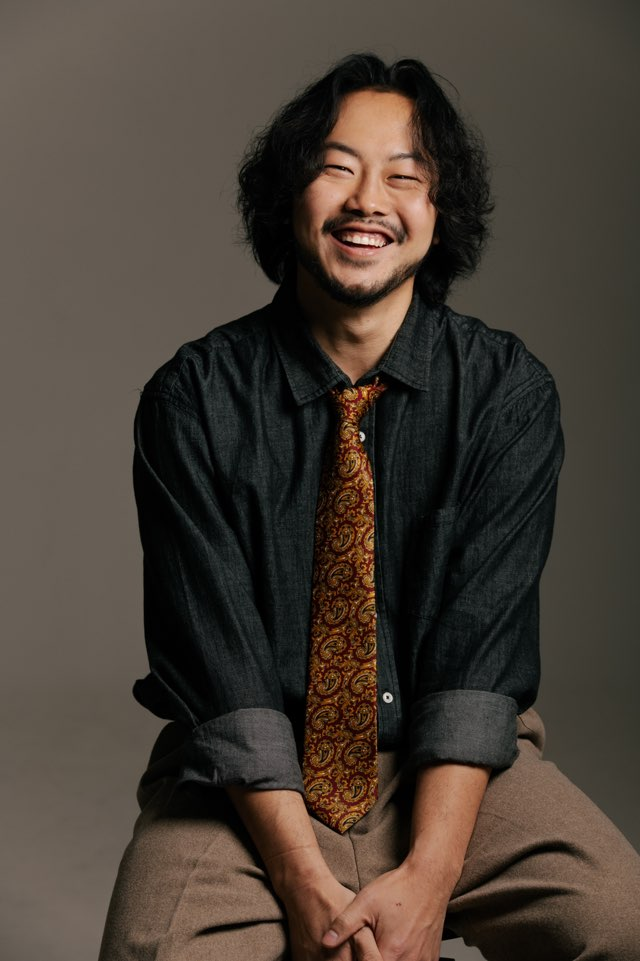
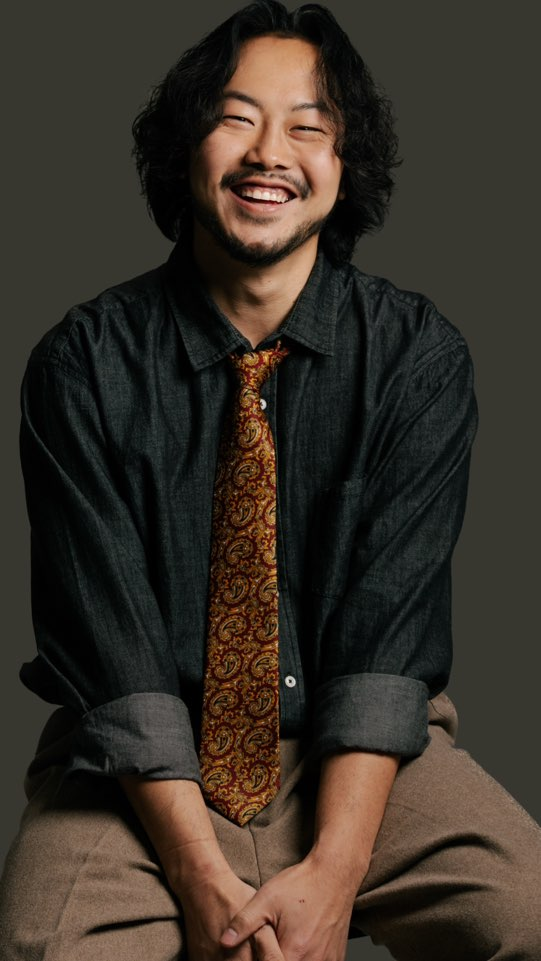
add gnb, first slide fix

diff --git a/frontend/src/app/home/home.component.html b/frontend/src/app/home/home.component.html
@@ -1,5 +1,102 @@
-<swiper [navigation]="true" class="mySwiper">
-  <ng-template swiperSlide *ngFor="let imgPath of imgList">
-    <img [src]="imgPath">
-  </ng-template>
-</swiper>
+<div class="home-container" fxFlexFill fxLayout="column" fxLayoutAlign="center center">
+
+  <swiper
+      [direction]="'vertical'"
+      [slidesPerView]="1"
+      [spaceBetween]="30"
+      [mousewheel]="true"
+      [pagination]="{
+          clickable: true
+      }"
+      class="swiper"
+  >
+    <ng-template swiperSlide>
+      <div fxFlex="33" class="info-box">
+          <h1>KIM SEUNG BOO</h1>
+          <div class="name-box" fxLayout="row" fxLayoutAlign="center center">
+            김 승 부
+          </div>
+        <mat-divider></mat-divider>
+        <span class="info-text">
+          - 나이 : 1996년생
+        </span>
+        <span class="info-text">
+          - 키 / 체중 : 179cm / 80kg
+        </span>
+        <span class="info-text">
+          - 특기 : 수영, 노래, 검도
+        </span>
+        <span class="info-text">
+          - Email : rlatmdqn1234@naver.com
+        </span>
+        <span class="info-text">
+          - Phone : 010-8784-1738
+        </span>
+      </div>
+
+      <div fxFlex="33" class="first-slide-img"></div>
+
+      <div fxFlex="31" fxLayout="column" fxLayoutAlign="center end" fxLayoutGap="5rem">
+        <div class="carrer-box">
+          <span class="carrer-title">드라마</span>
+          <mat-divider></mat-divider>
+          <span class="carrer-text">
+            - [법쩐] 성태 패거리 역 (방영 예정)
+          </span>
+          <span class="carrer-text">
+            - [금혼령] 산적역 (방영 예정)
+          </span>
+        </div>
+
+        <div class="carrer-box">
+          <span class="carrer-title">단편 영화</span>
+          <mat-divider></mat-divider>
+          <span class="carrer-text">
+            - [완두코니아] 주연
+          </span>
+          <span class="carrer-text">
+            - [그것] 주연
+          </span>
+          <span class="carrer-text">
+            - [연기] 주조연
+          </span>
+          <span class="carrer-text">
+            - [the moment] 조연
+          </span>
+          <span class="carrer-text">
+            - [3월 22일] 주연
+          </span>
+          <span class="carrer-text">
+            - [피아노] 주연
+          </span>
+        </div>
+      </div>
+    </ng-template>
+    <ng-template class="second-slide" swiperSlide>
+      <swiper 
+          [navigation]="true"
+          [effect]="'coverflow'"
+          [grabCursor]="true"
+          [centeredSlides]="true"
+          [slidesPerView]="'auto'"
+          [coverflowEffect]="{
+            rotate: 50,
+            stretch: 0,
+            depth: 100,
+            modifier: 1,
+            slideShadows: true
+          }"
+          [pagination]="true"
+          class="mySwiper"
+        >
+          <ng-template class="second-swiper-slide" swiperSlide *ngFor="let imgPath of imgList">
+            <img [src]="imgPath">
+          </ng-template>
+        </swiper>
+    </ng-template>
+    <ng-template swiperSlide>
+      
+    </ng-template>
+  </swiper>
+  
+</div>

diff --git a/frontend/src/app/home/home.component.scss b/frontend/src/app/home/home.component.scss
@@ -1,35 +1,119 @@
 
 @import "swiper/css";
+@import "~swiper/css/effect-coverflow";
+@import "~swiper/css/pagination";
 @import "swiper/css/navigation";
 
-.swiper {
+.home-container {
+  .first-slide-img {
+    background: url("../../assets/images/photo2.jpg") no-repeat;
+    opacity: 0.8;
+    width: 100%;
+    height: 100%;
+  }
+  .info-box {
+    display: flex;
+    flex-direction: column;
+    justify-content: center;
+    align-items: flex-start;
+    gap: 3vh;
+    color: white;
+    margin-left: 7vw;
+    margin-right: 3vw;
+
+    h1 {
+      font-size: 4rem;
+      color: rgba(255, 255, 255, 0.9);
+    }
+    .name-box {
+      font-size: 3rem;
+      text-align: center;
+    }
+    .info-text {
+      font-size: 1.2rem;
+      color: rgba(255, 255, 255, 0.7);
+    }
+  }
+
+  .carrer-box {
+    width: 100%;
+    display: flex;
+    flex-direction: column;
+    justify-content: center;
+    align-items: flex-end;
+    gap: 3vh;
+    color: white;
+    margin-right: 7vw;
+
+    .carrer-title {
+      font-size: 2rem
+    }
+
+    .carrer-text {
+      font-size: 1.2rem;
+      color: rgba(255, 255, 255, 0.7);
+    }
+  }
+
+  .second-slide {
+    .swiper {
+      width: 50%;
+      height: fit-content;
+      padding-top: 50px;
+      padding-bottom: 50px;
+    }
+    .swiper-slide {
+      background-position: center;
+      background-size: cover;
+      width: 300px;
+    }
+    
+    .swiper-slide img {
+      display: block;
+      width: 100%;
+    }
+  }
+}
+
+.home-container::before {
+  position: fixed;
+  content: "";
+  background: #37372f;
   width: 100%;
   height: 100%;
 }
 
-.swiper-slide {
-  text-align: center;
-  font-size: 18px;
-  background: #fff;
+.swiper {
+  width: 100%;
+  height: 90vh;
+}
 
-  /* Center slide text vertically */
-  display: -webkit-box;
-  display: -ms-flexbox;
-  display: -webkit-flex;
+.swiper-slide {
+  color: #fff;
+  background-color: transparent;
   display: flex;
-  -webkit-box-pack: center;
-  -ms-flex-pack: center;
-  -webkit-justify-content: center;
-  justify-content: center;
-  -webkit-box-align: center;
-  -ms-flex-align: center;
-  -webkit-align-items: center;
+  flex-direction: row;
+  justify-content: flex-start;
   align-items: center;
+  gap: 1vh;
+}
+
+.swiper-slide:first-child {
+  justify-content: flex-end;
 }
 
 .swiper-slide img {
   display: block;
   width: 100%;
   height: 100%;
-  object-fit: contain;
+}
+
+.mat-divider {
+  width: 100%;
+  border-top-color: rgba(255, 255, 255, 0.2);
+}
+
+.title {
+  font-size: 2rem;
+  color: rgba(255, 255, 255, 0.5);
 }

diff --git a/frontend/src/app/app.component.ts b/frontend/src/app/app.component.ts
@@ -1,4 +1,6 @@
 import { Component } from '@angular/core';
+import { MatIconRegistry } from '@angular/material/icon';
+import { DomSanitizer } from '@angular/platform-browser';
 
 @Component({
   selector: 'app-root',
@@ -6,5 +8,16 @@ import { Component } from '@angular/core';
   styleUrls: ['./app.component.scss']
 })
 export class AppComponent {
+
   title = 'KimSeungBoo';
+
+  constructor(
+    private matIconRegistry: MatIconRegistry,
+    private domSanitizer: DomSanitizer
+  ) {
+    this.matIconRegistry.addSvgIcon('youtube',
+    this.domSanitizer.bypassSecurityTrustResourceUrl('assets/icons/youtube.svg'));
+    this.matIconRegistry.addSvgIcon('instagram',
+    this.domSanitizer.bypassSecurityTrustResourceUrl('assets/icons/instagram.svg'));
+  }
 }

diff --git a/frontend/src/app/app.module.ts b/frontend/src/app/app.module.ts
@@ -5,11 +5,13 @@ import { AppRoutingModule } from './app-routing.module';
 import { AppComponent } from './app.component';
 import { SharedModule } from './shared.module';
 import { HomeComponent } from './home/home.component';
+import { GlobalNavBarComponent } from './global-nav-bar/global-nav-bar.component';
 
 @NgModule({
   declarations: [
     AppComponent,
-    HomeComponent
+    HomeComponent,
+    GlobalNavBarComponent
   ],
   imports: [
     BrowserModule,

diff --git a/frontend/src/app/global-nav-bar/global-nav-bar.component.html b/frontend/src/app/global-nav-bar/global-nav-bar.component.html
@@ -1,0 +1,11 @@
+<mat-toolbar>
+  <!-- <span class="title">KIMSEUNGBOO</span> -->
+  <div fxLayout="row" fxLayoutGap="1rem">
+    <button mat-icon-button (click)="moveToLink('https://www.youtube.com/@user-fj8xk4if6q')">
+      <mat-icon svgIcon="youtube"></mat-icon>
+    </button>
+    <button mat-icon-button (click)="moveToLink('https://www.instagram.com/seungboooooooo/')">
+      <mat-icon svgIcon="instagram"></mat-icon>
+    </button>
+  </div>
+</mat-toolbar>

diff --git a/frontend/src/app/global-nav-bar/global-nav-bar.component.ts b/frontend/src/app/global-nav-bar/global-nav-bar.component.ts
@@ -1,0 +1,19 @@
+import { Component, OnInit } from '@angular/core';
+
+@Component({
+  selector: 'app-global-nav-bar',
+  templateUrl: './global-nav-bar.component.html',
+  styleUrls: ['./global-nav-bar.component.scss']
+})
+export class GlobalNavBarComponent implements OnInit {
+
+  constructor() { }
+
+  ngOnInit(): void {
+  }
+
+  moveToLink(url: string) {
+    window.open(url, '_blank');
+  }
+
+}

diff --git a/frontend/src/app/home/home.component.ts b/frontend/src/app/home/home.component.ts
@@ -1,8 +1,8 @@
 import { Component, OnInit, ViewEncapsulation } from '@angular/core';
-import SwiperCore, { Navigation } from "swiper";
+import SwiperCore, { Navigation, EffectCoverflow, Pagination, Mousewheel } from "swiper";
 
 // install Swiper modules
-SwiperCore.use([Navigation]);
+SwiperCore.use([Navigation, EffectCoverflow, Pagination, Mousewheel]);
 
 @Component({
   selector: 'app-home',

diff --git a/frontend/src/app/global-nav-bar/global-nav-bar.component.scss b/frontend/src/app/global-nav-bar/global-nav-bar.component.scss
@@ -1,0 +1,10 @@
+mat-toolbar {
+  //justify-content: space-between;
+  justify-content: flex-end;
+  background: transparent;
+}
+
+.title {
+  font-size: 1.5rem;
+  font-weight: 500;
+}

diff --git a/frontend/src/app/app.component.html b/frontend/src/app/app.component.html
@@ -1,3 +1,6 @@
 <div class="page">
+  <div class="header">
+    <app-global-nav-bar></app-global-nav-bar>
+  </div>
   <router-outlet></router-outlet>
 </div>

diff --git a/frontend/src/app/app.component.scss b/frontend/src/app/app.component.scss
@@ -1,3 +1,10 @@
 .page {
   height: 100%;
+  background-color: whitesmoke;
+
+  .header {
+    width: 100%;
+    position: fixed;
+    z-index: 1;
+  }
 }
